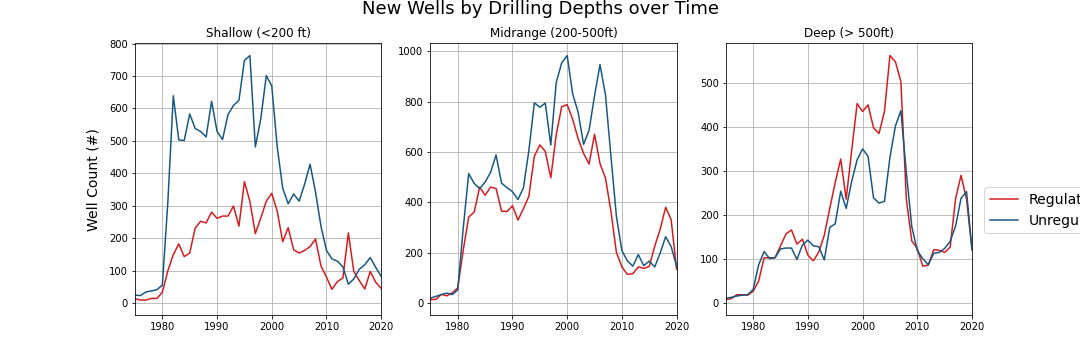
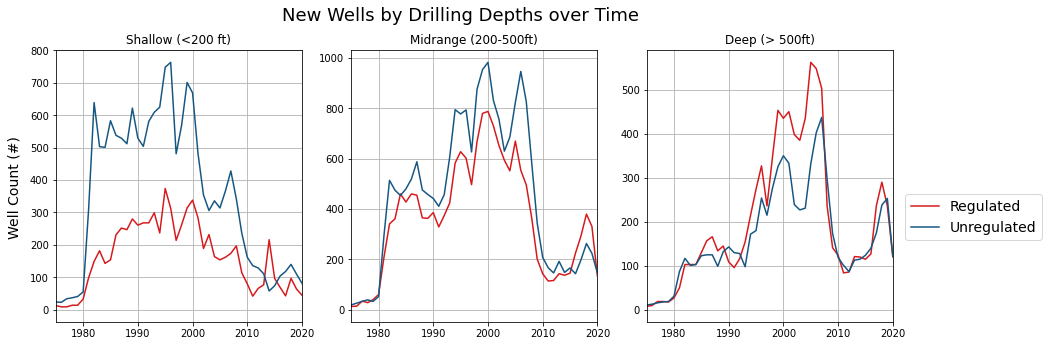
Fixing Graphs and saving codes

Changed region(s): [[0.0, 0.0, 1.0, 0.9827], [0.0305, 0.2312, 0.0915, 0.2601], [0.0305, 0.1445, 0.0915, 0.1734]]

diff --git a/SummaryCodes/Spatial_Analysis_Wells_FinalGeoreg.py b/SummaryCodes/Spatial_Analysis_Wells_FinalGeoreg.py
@@ -23,6 +23,7 @@ import matplotlib.pyplot as plt
 import matplotlib.lines as mlines
 from matplotlib.colors import ListedColormap
 import datetime
+from matplotlib.transforms import Bbox
 import seaborn as sns
 import numpy as np
 import pandas as pd
@@ -676,13 +677,13 @@ wd3 = wd3.sort_values(by=['GEOREGI_NU'])
 # wdc2 = pd.pivot_table(wd2, index=["In_year"], columns=["GEO_Region"], values=['WELL_DEPTH'], dropna=False, aggfunc=len)
 # wdc3 = pd.pivot_table(wd3, index=["In_year"], columns=["GEO_Region"], values=['WELL_DEPTH'], dropna=False, aggfunc=len)
 
-# wdc1 = pd.pivot_table(wd1, index=["In_year"], columns=["Regulation"], values=['WELL_DEPTH'], dropna=False, aggfunc=len)
-# wdc2 = pd.pivot_table(wd2, index=["In_year"], columns=["Regulation"], values=['WELL_DEPTH'], dropna=False, aggfunc=len)
-# wdc3 = pd.pivot_table(wd3, index=["In_year"], columns=["Regulation"], values=['WELL_DEPTH'], dropna=False, aggfunc=len)
+wdc1 = pd.pivot_table(wd1, index=["In_year"], columns=["Regulation"], values=['WELL_DEPTH'], dropna=False, aggfunc=len)
+wdc2 = pd.pivot_table(wd2, index=["In_year"], columns=["Regulation"], values=['WELL_DEPTH'], dropna=False, aggfunc=len)
+wdc3 = pd.pivot_table(wd3, index=["In_year"], columns=["Regulation"], values=['WELL_DEPTH'], dropna=False, aggfunc=len)
 
-wdc1 = pd.pivot_table(wd1, index=["In_year"], columns=["Water_CAT"], values=['WELL_DEPTH'], dropna=False, aggfunc=len)
-wdc2 = pd.pivot_table(wd2, index=["In_year"], columns=["Water_CAT"], values=['WELL_DEPTH'], dropna=False, aggfunc=len)
-wdc3 = pd.pivot_table(wd3, index=["In_year"], columns=["Water_CAT"], values=['WELL_DEPTH'], dropna=False, aggfunc=len)
+# wdc1 = pd.pivot_table(wd1, index=["In_year"], columns=["Water_CAT"], values=['WELL_DEPTH'], dropna=False, aggfunc=len)
+# wdc2 = pd.pivot_table(wd2, index=["In_year"], columns=["Water_CAT"], values=['WELL_DEPTH'], dropna=False, aggfunc=len)
+# wdc3 = pd.pivot_table(wd3, index=["In_year"], columns=["Water_CAT"], values=['WELL_DEPTH'], dropna=False, aggfunc=len)
 
 # %%
 st_wdc1 = pd.pivot_table(wd1, index=["In_year"], values=['WELL_DEPTH'], dropna=False, aggfunc=len)
@@ -793,6 +794,74 @@ ax.legend(fontsize = fsize)
 
 plt.savefig(outputpath+name+'_WaterSource')
 
+# %%
+# Plot all of the different depths 3 in a line
+ds1 = wdc1
+ds2 = wdc2
+ds3 = wdc3
+
+name = 'New Wells by Drilling Depths over Time'
+ylabel = "Well Count (#)"
+minyear=1975
+maxyear=2020
+#min_y = -15
+#max_y = 7
+fsize = 14
+
+columns = ds1.columns
+labels = ds1.columns.tolist()
+print(labels)
+
+# For the actual figure
+fig, ax = plt.subplots(1,3,figsize=(15,5))
+#fig.tight_layout()
+fig.suptitle(name, fontsize=18, y=1.00)
+fig.supylabel(ylabel, fontsize = 14, x=0.08)
+
+ax[0].plot(ds3[labels[0]], label='CAP', color=c_2)
+ax[0].plot(ds3[labels[3]], label='Non-CAP', color=c_3)
+ax[0].plot(ds3[labels[1]], label='Groundwater ', color=c_7)
+ax[0].plot(ds3[labels[4]], label='Surface Water', color=c_4)
+ax[0].plot(ds3[labels[2]], label='Mixed GW/SW', color=c_5)
+
+ax[1].plot(ds2[labels[0]], label='CAP', color=c_2)
+ax[1].plot(ds2[labels[3]], label='Non-CAP', color=c_3)
+ax[1].plot(ds2[labels[1]], label='Groundwater ', color=c_7)
+ax[1].plot(ds2[labels[4]], label='Surface Water', color=c_4)
+ax[1].plot(ds2[labels[2]], label='Mixed GW/SW', color=c_5)
+
+ax[2].plot(ds1[labels[0]], label='CAP', color=c_2)
+ax[2].plot(ds1[labels[3]], label='Non-CAP', color=c_3)
+ax[2].plot(ds1[labels[1]], label='Groundwater ', color=c_7)
+ax[2].plot(ds1[labels[4]], label='Surface Water', color=c_4)
+ax[2].plot(ds1[labels[2]], label='Mixed GW/SW', color=c_5)
+
+ax[0].set_xlim(minyear,maxyear)
+ax[1].set_xlim(minyear,maxyear)
+ax[2].set_xlim(minyear,maxyear)
+
+#ax[0].set_ylim(min_y,max_y)
+#ax[1].set_ylim(min_y,max_y)
+#ax[2].set_ylim(min_y,max_y)
+
+ax[0].set_title('Shallow (<200 ft)', loc='center')
+ax[1].set_title('Midrange (200-500ft)', loc='center')
+ax[2].set_title('Deep (> 500ft)', loc='center')
+
+
+ax[0].grid(True)
+ax[1].grid(True)
+ax[2].grid(True)
+
+#ax[0,0].set(title=name, xlabel='Year', ylabel='Change from Baseline (cm)')
+#ax[0,0].set_title(name, loc='right')
+#ax[1,0].set_ylabel("Change from 2004-2009 Baseline (cm)", loc='top', fontsize = fsize)
+ax[2].legend(loc = [1.05, 0.3], fontsize = fsize)
+
+fig.set_dpi(600.0)
+
+plt.savefig(outputpath+name+'_watercat_3horizontalpanel', bbox_inches='tight')
+
 # %% Plots for Regulated vs. Unregulated Lumping
 ds = wdc1
 name = 'Number of Deep Wells (greater than '+ str(deep) +' ft)'
@@ -873,14 +942,14 @@ ax.set_xlim(minyear,maxyear)
 ax.grid(True)
 ax.legend()
 
-plt.savefig(outputpath+name+'_regulation')
+plt.savefig(outputpath+name+'_regulation', bbox_inches='tight')
 # %%
 # Plot all of the different depths 3 in a line
 ds1 = wdc1
 ds2 = wdc2
 ds3 = wdc3
 
-name = 'Well Depths over Time'
+name = 'New Wells by Drilling Depths over Time'
 ylabel = "Well Count (#)"
 minyear=1975
 maxyear=2020
@@ -888,15 +957,15 @@ maxyear=2020
 #max_y = 7
 fsize = 14
 
-columns = ds.columns
-labels = ds.columns.tolist()
+columns = ds1.columns
+labels = ds1.columns.tolist()
 print(labels)
 
 # For the actual figure
-fig, ax = plt.subplots(1,3,figsize=(18,9))
+fig, ax = plt.subplots(1,3,figsize=(15,5))
 #fig.tight_layout()
-fig.suptitle(name, fontsize=20, y=0.91)
-fig.supylabel(ylabel, fontsize = 14, x=0.07)
+fig.suptitle(name, fontsize=18, y=1.00)
+fig.supylabel(ylabel, fontsize = 14, x=0.08)
 ax[0].plot(ds3[labels[0]], label='Regulated', color=c_2)
 ax[0].plot(ds3[labels[1]], label='Unregulated', color=c_7)
 ax[1].plot(ds2[labels[0]], label='Regulated', color=c_2)
@@ -912,6 +981,11 @@ ax[2].set_xlim(minyear,maxyear)
 #ax[1].set_ylim(min_y,max_y)
 #ax[2].set_ylim(min_y,max_y)
 
+ax[0].set_title('Shallow (<200 ft)', loc='center')
+ax[1].set_title('Midrange (200-500ft)', loc='center')
+ax[2].set_title('Deep (> 500ft)', loc='center')
+
+
 ax[0].grid(True)
 ax[1].grid(True)
 ax[2].grid(True)
@@ -921,7 +995,12 @@ ax[2].grid(True)
 #ax[1,0].set_ylabel("Change from 2004-2009 Baseline (cm)", loc='top', fontsize = fsize)
 ax[2].legend(loc = [1.05, 0.3], fontsize = fsize)
 
-# plt.savefig(outputpath+name+'_4panel')
+fig.set_dpi(600.0)
+
+plt.savefig(outputpath+name+'_3horizontalpanel', bbox_inches='tight')
+
+# %%
+# Plot the well counts on the same graph
 # %%
 # Plot all of the deep wells in 4 panel
 ds = wdc1
@@ -1318,6 +1397,50 @@ ax[1].legend(loc = [1.05, 0.3], fontsize = fsize)
 ax[2].legend(loc = [1.05, 0.3], fontsize = fsize)
 
 plt.savefig(outputpath+name)
+
+# %%
+ds = new_wells_watercat
+name = 'New Wells over Time'
+ylabel = "Well Count (#)"
+minyear=1980
+maxyear=2020
+min_y = 0
+max_y = 100
+fsize = 14
+
+columns = ds.columns
+labels = ds.columns.tolist()
+print(labels)
+
+# For the actual figure
+fig, ax = plt.subplots(figsize=(14,9))
+#fig.tight_layout()
+fig.suptitle(name, fontsize=20, y=0.91)
+#fig.supylabel(ylabel, fontsize = 14, x=0.09)
+
+# ax.plot(ds[labels[0]], label='Regulated', color=c_2) 
+# ax.plot(ds[labels[1]], label='Unregulated', color=c_9) 
+
+ax.plot(ds[labels[0]], label='CAP', color=c_2) 
+ax.plot(ds[labels[4]], label='Surface Water', color=c_4) 
+ax.plot(ds[labels[2]], label='Mixed', color=c_5) 
+ax.plot(ds[labels[3]], label='Regulated GW', color=c_3) 
+ax.plot(ds[labels[1]], label='Unregulated GW', color=c_7) 
+
+ax.set_xlim(minyear,maxyear)
+
+#ax[0].set_ylim(min_y,max_y)
+#ax[1].set_ylim(min_y,max_y)
+#ax[2].set_ylim(min_y,max_y)
+
+ax.grid(True)
+
+#ax[0,0].set(title=name, xlabel='Year', ylabel='Change from Baseline (cm)')
+#ax[0,0].set_title(name, loc='right')
+ax.set_ylabel("Well Count (#)", fontsize = fsize)
+ax.legend(loc = [1.05, 0.40], fontsize = fsize)
+
+plt.savefig(outputpath+name+"Timeseries", bbox_inches='tight')
 
 # %% ---- Fancier Analyses ----
 # Calculating well densities

diff --git a/SummaryCodes/Wells55_GWSI_Static_Merge.py b/SummaryCodes/Wells55_GWSI_Static_Merge.py
@@ -156,7 +156,7 @@ Wells55_GWSI_MasterDB.to_csv('../MergedData/Output_files/Master_ADWR_database_no
 Wells55_GWSI_MasterDB.to_file('../MergedData/Output_files/Master_ADWR_database_nocancelled.shp')
 
 # %%
-#  Only water wells
+#  - Only water wells 
 Wells55_GWSI_MasterDB = pd.merge(gwsi_gdf, wells55_water, suffixes=['_gwsi','_wells55'], how="outer", 
                                           on=['OBJECTID','Combo_ID',"REGISTRY_I", 'WELL_DEPTH', 'geometry', 'Original_DB'])
 
